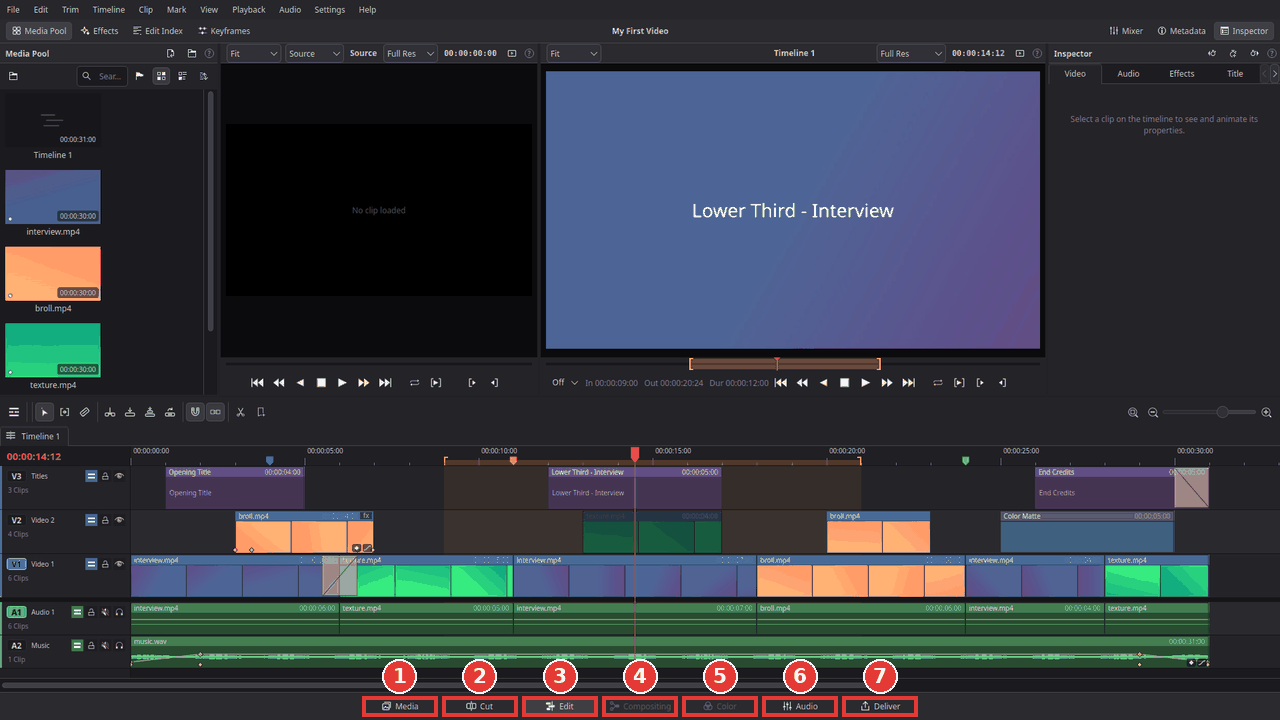
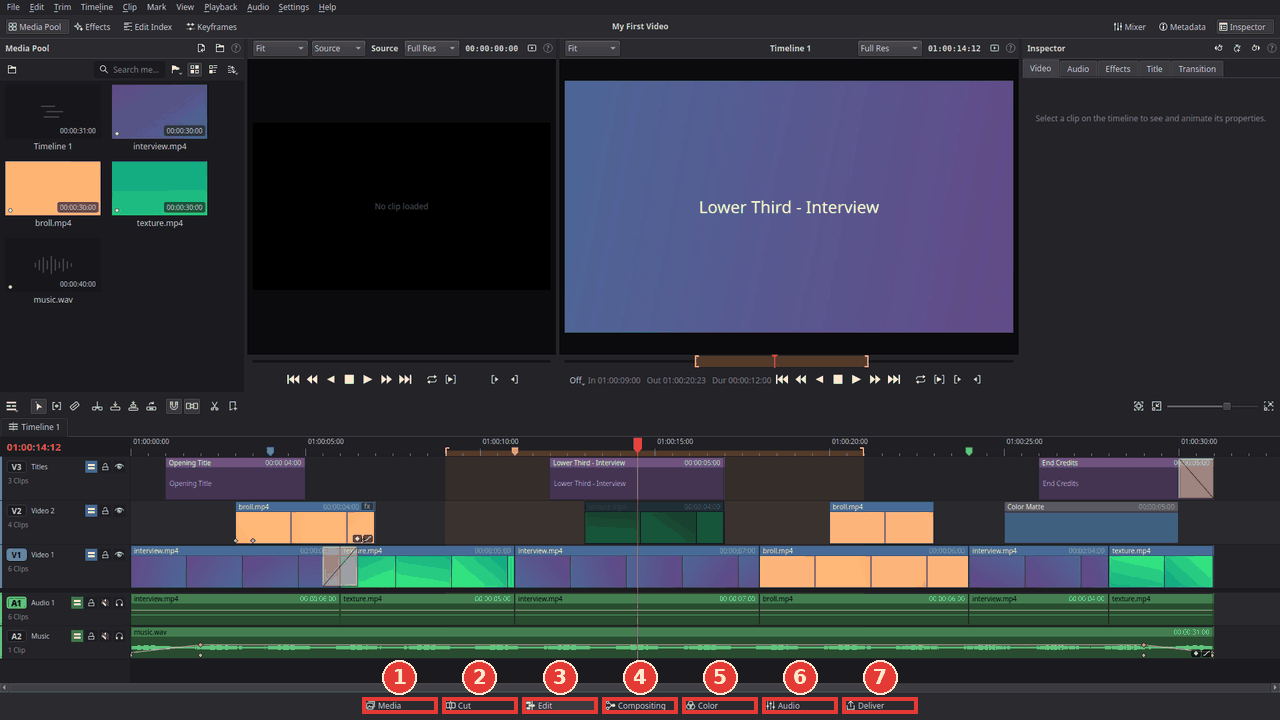
Guide: retake screenshots that show timecodes (01:00:00:00, 24 fps)
The guide's demo projects are new projects, so their timelines now start at 01:00:00:00
and run at 24 fps. The demo clips are placed in frames of the timeline's own rate
(buildDemoTimeline and test_guidedemo used 25-frame seconds), and every screenshot whose
visible timecode changed is retaken: the ruler, viewer and Deliver timecodes. Shots
without a visible timecode are left as they were. guide_screenshots.py gets --delay for
busy machines (thumbnails and posters).

diff --git a/tests/timeline/test_guidedemo.cpp b/tests/timeline/test_guidedemo.cpp
@@ -104,7 +104,7 @@ private slots:
         d.name = QStringLiteral("Green Screen");
         while (d.videoTracks.size() < 2)
             editops::addTrack(d, TrackType::Video);
-        const int64_t length = 10 * 25;
+        const int64_t length = 10 * 24;
         place(d, *itemNamed(project, QStringLiteral("background")), 0, length, 0, 0);
         const quint64 fg
             = place(d, *itemNamed(project, QStringLiteral("greenscreen")), 0, length, 1, -1);
@@ -131,7 +131,7 @@ private slots:
         TimelineData& d = project.timeline()->mutableData();
         d.name = QStringLiteral("With Music");
         d.audioTracks[1].name = QStringLiteral("Music");
-        const int64_t fps = 25;
+        const int64_t fps = 24; // a new project's frame rate
         place(d, *itemNamed(project, QStringLiteral("interview")), 0, 12 * fps, 0, 0);
         const quint64 music
             = place(d, *itemNamed(project, QStringLiteral("music")), 0, 12 * fps, -1, 1);
@@ -158,7 +158,7 @@ private slots:
         project.beginEdit(QStringLiteral("Demo"));
         TimelineData& d = project.timeline()->mutableData();
         d.name = QStringLiteral("Fades");
-        const int64_t fps = 25;
+        const int64_t fps = 24; // a new project's frame rate
         const quint64 first
             = place(d, *itemNamed(project, QStringLiteral("interview")), 0, 8 * fps, 0, 0);
         const quint64 last
@@ -189,7 +189,7 @@ private slots:
         project.beginEdit(QStringLiteral("Demo"));
         TimelineData& d = project.timeline()->mutableData();
         d.name = QStringLiteral("Freeze");
-        const int64_t fps = 25;
+        const int64_t fps = 24; // a new project's frame rate
         const quint64 id
             = place(d, *itemNamed(project, QStringLiteral("presenter")), 0, 8 * fps, 0, -1);
         QVERIFY(retimeops::insertFreeze(d, id, 3 * fps, 2 * fps));
@@ -211,7 +211,7 @@ private slots:
         d.name = QStringLiteral("Picture in Picture");
         while (d.videoTracks.size() < 2)
             editops::addTrack(d, TrackType::Video);
-        const int64_t fps = 25;
+        const int64_t fps = 24; // a new project's frame rate
         place(d, *itemNamed(project, QStringLiteral("presenter")), 0, 10 * fps, 0, 0);
         const quint64 small
             = place(d, *itemNamed(project, QStringLiteral("broll")), 0, 10 * fps, 1, -1);
@@ -243,7 +243,7 @@ private slots:
         TimelineData& d = project.timeline()->mutableData();
         d.name = QStringLiteral("Vertical");
         QCOMPARE(d.width, 1080);
-        const int64_t fps = 25;
+        const int64_t fps = 24; // a new project's frame rate
         const quint64 id
             = place(d, *itemNamed(project, QStringLiteral("presenter")), 0, 10 * fps, 0, 0);
         ClipData* c = editops::clipById(d, id);
@@ -268,7 +268,7 @@ private slots:
         d.name = QStringLiteral("Hide a Face");
         while (d.videoTracks.size() < 2)
             editops::addTrack(d, TrackType::Video);
-        const int64_t fps = 25;
+        const int64_t fps = 24; // a new project's frame rate
         place(d, *itemNamed(project, QStringLiteral("presenter")), 0, 10 * fps, 0, 0);
         ClipData adj;
         adj.kind = ClipKind::Adjustment;
@@ -299,7 +299,7 @@ private slots:
         project.beginEdit(QStringLiteral("Demo"));
         TimelineData& d = project.timeline()->mutableData();
         d.name = QStringLiteral("With Subtitles");
-        const int64_t fps = 25;
+        const int64_t fps = 24; // a new project's frame rate
         place(d, *itemNamed(project, QStringLiteral("presenter")), 0, 9 * fps, 0, 0);
         place(d, *itemNamed(project, QStringLiteral("broll")), 9 * fps, 5 * fps, 0, 0);
         editops::addTrack(d, TrackType::Subtitle);
@@ -326,7 +326,7 @@ private slots:
         project.beginEdit(QStringLiteral("Demo"));
         TimelineData& d = project.timeline()->mutableData();
         d.name = QStringLiteral("Slow Zoom");
-        const int64_t fps = 25;
+        const int64_t fps = 24; // a new project's frame rate
         const int64_t length = 8 * fps;
         const quint64 id
             = place(d, *itemNamed(project, QStringLiteral("presenter")), 0, length, 0, 0);
@@ -353,7 +353,7 @@ private slots:
         project.beginEdit(QStringLiteral("Demo"));
         TimelineData& d = project.timeline()->mutableData();
         d.name = QStringLiteral("Compositing");
-        const int64_t fps = 25;
+        const int64_t fps = 24; // a new project's frame rate
         const quint64 id
             = place(d, *itemNamed(project, QStringLiteral("presenter")), 0, 10 * fps, 0, 0);
         ClipData* c = editops::clipById(d, id);

diff --git a/scripts/guide_screenshots.py b/scripts/guide_screenshots.py
@@ -42,6 +42,7 @@ RED = (229, 57, 53)
 WHITE = (255, 255, 255)
 LINE = 4          # px at full size
 MARGIN = 24       # px around a crop
+DELAY_MS = 3000   # settle time per shot (--delay: longer on a busy machine)
 FONT_FILES = ["/usr/share/fonts/truetype/dejavu/DejaVuSans-Bold.ttf",
               "/usr/share/fonts/truetype/noto/NotoSans-Bold.ttf"]
 
@@ -171,7 +172,7 @@ def run_shot(app: Path, target: str, project: Path, png: Path, geometry: Path,
     with tempfile.TemporaryDirectory(prefix="kk-guide-home-") as home:
         env = clean_env(Path(home))
         env["KK_SCREENSHOT_GEOMETRY"] = str(geometry)
-        env["KK_SCREENSHOT_DELAY_MS"] = "3000"  # thumbnails, waveforms and posters
+        env["KK_SCREENSHOT_DELAY_MS"] = str(DELAY_MS)  # thumbnails, waveforms and posters
         env["KK_SCREENSHOT_LOCATION"] = "/home/you/Videos"  # not the temporary folder
         env.update(extra_env)
         for lut in luts:  # the Color page's LUT folder (QStandardPaths::AppDataLocation/LUT)
@@ -651,7 +652,10 @@ def main() -> None:
     parser.add_argument("--work", default=str(ROOT / "build" / "guide"))
     parser.add_argument("--only", help="article or article/shot")
     parser.add_argument("--keep", action="store_true", help="reuse raw shots from --work")
+    parser.add_argument("--delay", type=int, default=DELAY_MS,
+                        help="ms to wait for thumbnails and posters before each shot")
     args = parser.parse_args()
+    globals()["DELAY_MS"] = args.delay
 
     if "KK_GUIDE_UNDER_XVFB" not in os.environ:
         if not shutil.which("xvfb-run"):

diff --git a/tests/timeline/TimelineTestUtils.h b/tests/timeline/TimelineTestUtils.h
@@ -23,6 +23,8 @@
 #include <QSettings>
 #include <QStandardPaths>
 
+#include <cmath>
+
 namespace kk::test {
 
 /// One-time application setup for widget tests (test settings, resources, dark theme).
@@ -113,7 +115,8 @@ inline int buildDemoTimeline(Project& project, const QString& mediaDir = {})
     d.videoTracks[2].name = QStringLiteral("Titles");
     d.audioTracks[1].name = QStringLiteral("Music");
 
-    const int64_t fps = 25;
+    // 25 in the classic test timelines, 24 in new projects (the user guide's demo).
+    const int64_t fps = std::llround(d.fps.toDouble());
     int clips = 0;
     // Media clip (video + linked audio) or a stand-in solid when the file is missing.
     auto av = [&](const char* name, int64_t start, int64_t duration, int64_t srcSec, int vTrack) {
